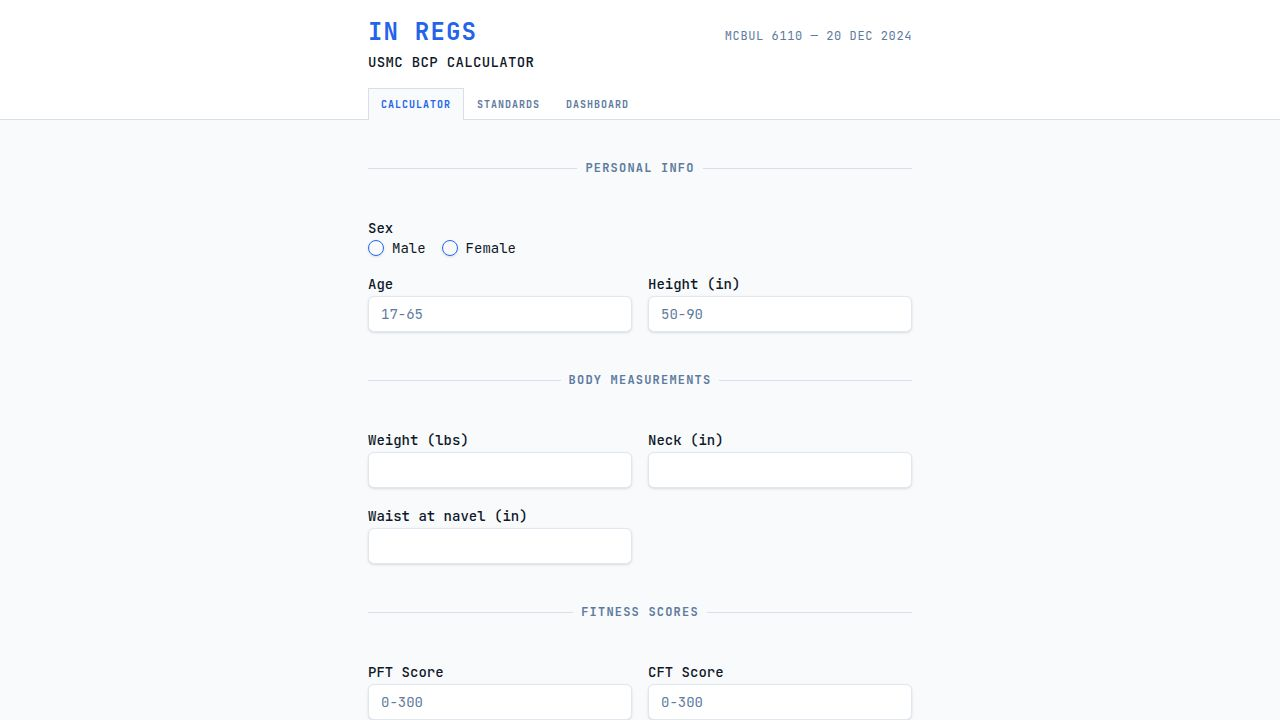
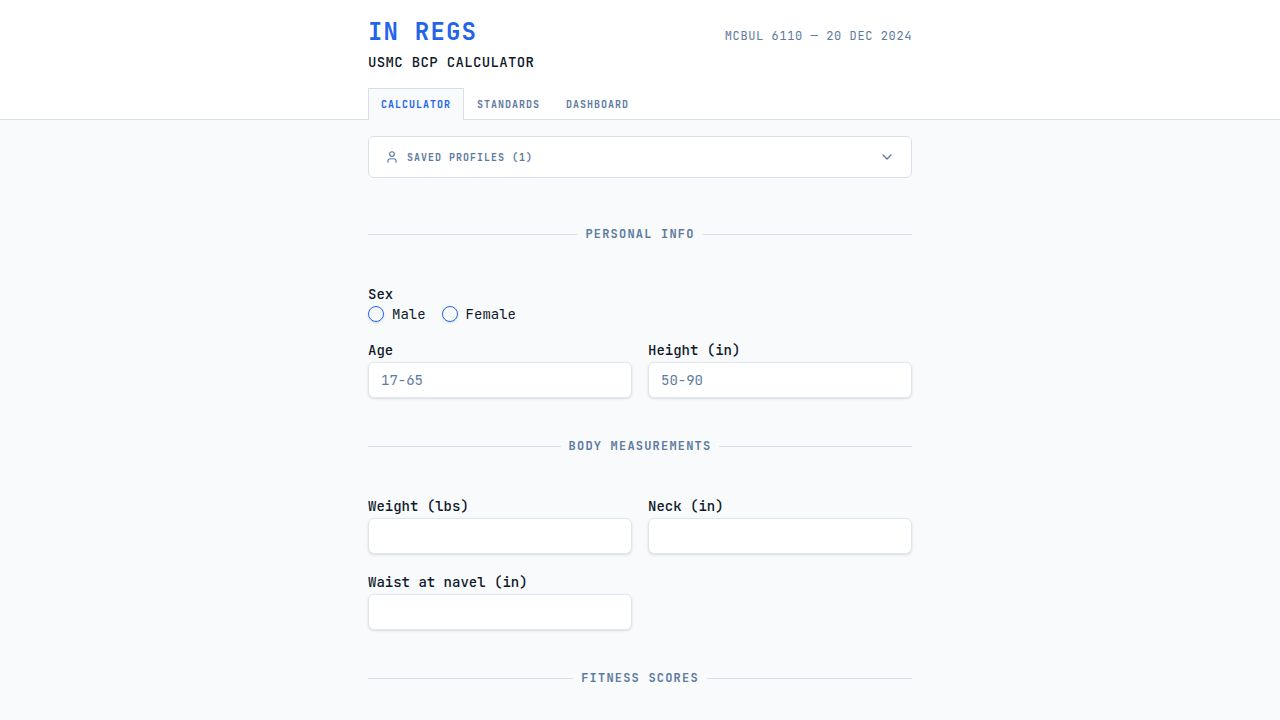
Published your App
Replit-Commit-Author: Deployment
Replit-Commit-Session-Id: 585d2dfa-0827-460b-8e01-798716807875
Replit-Commit-Checkpoint-Type: full_checkpoint
Replit-Commit-Event-Id: eeb478fe-6ba6-47b5-afe7-cc793af6d38a
Replit-Commit-Screenshot-Url: https://storage.googleapis.com/screenshot-production-us-central1/167977f0-9999-463a-bb82-8e8898970556/585d2dfa-0827-460b-8e01-798716807875/yrLvWr7
Replit-Commit-Deployment-Build-Id: f0728dc3-eb5a-4f6a-8678-0d1eab00fe45
Replit-Helium-Checkpoint-Created: true

diff --git a/artifacts/inregs/src/components/CalculatorForm.tsx b/artifacts/inregs/src/components/CalculatorForm.tsx
@@ -1,4 +1,4 @@
-import { useState, useRef } from "react";
+import { useState, useRef, useEffect } from "react";
 import { FormData, validateInputs, ValidationErrors } from "@/lib/validation";
 import { calculateRegStatus, RegResult } from "@/lib/marineStandards";
 import { Button } from "@/components/ui/button";
@@ -8,7 +8,6 @@ import { RadioGroup, RadioGroupItem } from "@/components/ui/radio-group";
 import { ResultSection } from "./ResultSection";
 import { LoadProfilePanel } from "./ProfileLoader";
 import { MarineProfile, setActiveProfileId as persistActiveId } from "@/lib/storage";
-import { useEffect } from "react";
 
 const INITIAL_FORM: FormData = {
   sex: "",